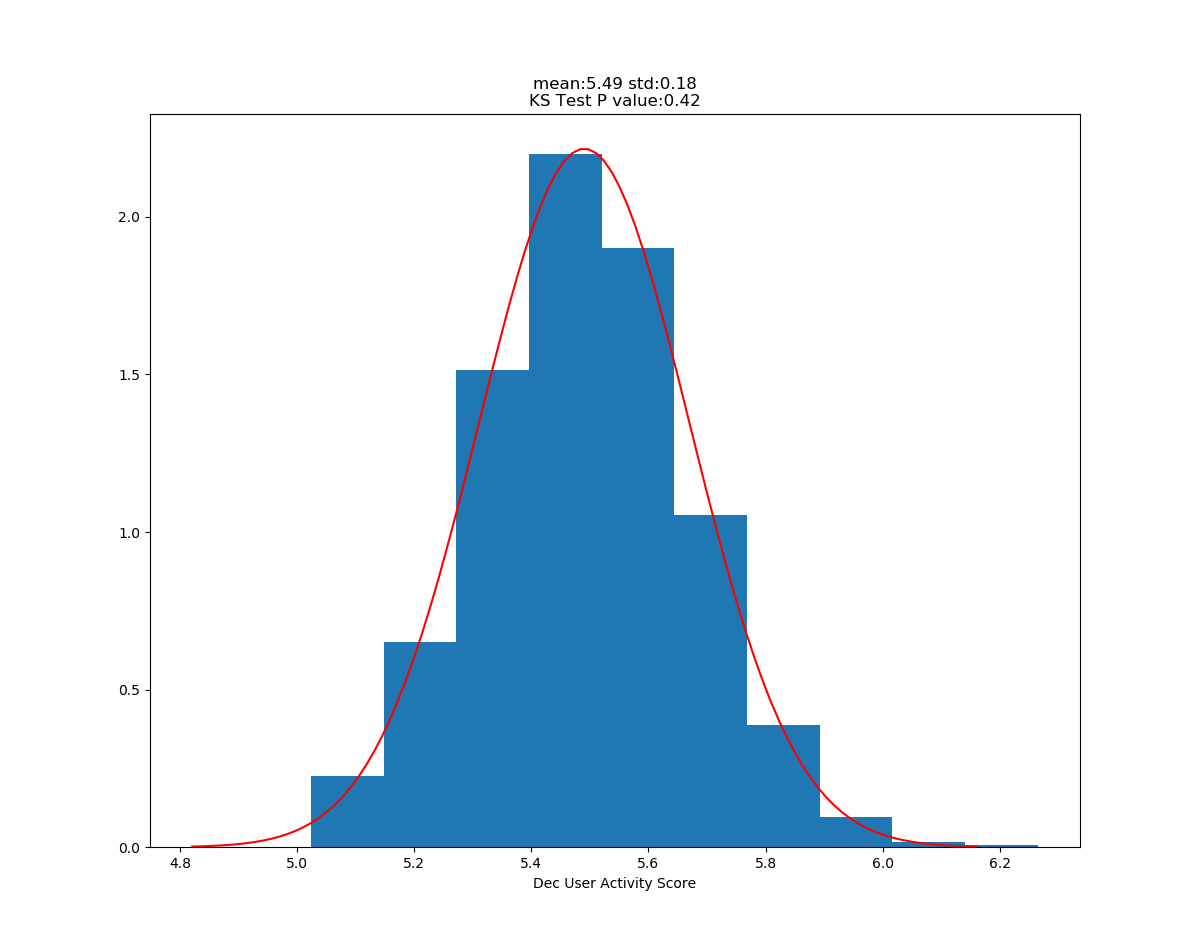
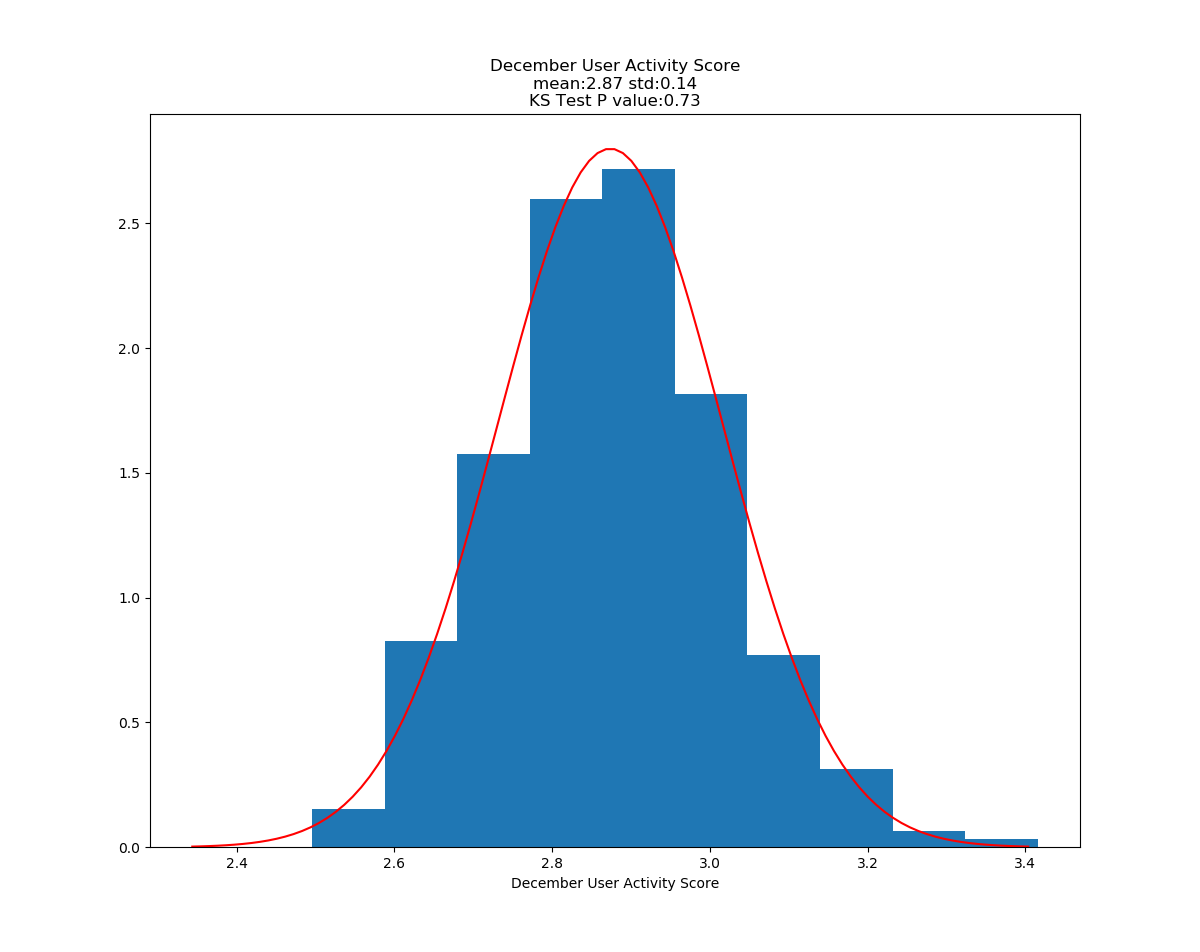
fix graphs

diff --git a/src/db_basic_data_stats.py b/src/db_basic_data_stats.py
@@ -469,16 +469,16 @@ def get_estimated_created_date(main_df):
     main_df = main_df.merge(estimated_created_date_df, how='left', on='user_id')
     return main_df
 
-def corr_heatmap_with_values(df):
+def corr_heatmap_with_values(df, title):
     corr = df.corr()
     mask = np.zeros_like(corr, dtype=np.bool)
     mask[np.triu_indices_from(mask)] = True
-    f, ax = plt.subplots(figsize=(17,15))
+    f, ax = plt.subplots(figsize=(10,10))
     cmap = sns.color_palette('coolwarm')
     sns.heatmap(corr, mask=mask, cmap=cmap, center=0, square=True, linewidths=.5,
                 yticklabels=True, annot=True, fmt='.2f', cbar_kws={'shrink':.5})
-    plt.title('Correlation Matrix', fontsize=20)
-    plt.xticks(rotation=90, fontsize=11)
+    plt.title(title, fontsize=20)
+    plt.xticks(rotation=60, fontsize=11, horizontalalignment='right')
     plt.yticks(rotation=0, fontsize=11)
     plt.tight_layout()
     plt.show()
@@ -487,33 +487,36 @@ def dec_vs_other_months(hypothesis_df):
     #hypothesis_df['estimated_created_date'] = hypothesis_df['estimated_created_date'].astype('datetime64[ns]')
     hypothesis_df_Dec = hypothesis_df.loc[hypothesis_df['estimated_created_date'].dt.month == 12]
     hypothesis_df_not_Dec = hypothesis_df.loc[hypothesis_df['estimated_created_date'].dt.month < 12]
-    dec_active = hypothesis_df_not_Dec.loc[hypothesis_df_not_Dec['user_active_yn']==1]
+    dec_active = hypothesis_df_Dec.loc[hypothesis_df_Dec['user_active_yn']==1]
     other_active = hypothesis_df_not_Dec.loc[hypothesis_df_not_Dec['user_active_yn']==1]
-    # plt.hist(hypothesis_df_Dec['user_activity_score'], color='cyan', label='Dec Active Scores')
-    # plt.hist(hypothesis_df_not_Dec['user_activity_score'],alpha=0.7, color='pink', label='Year Active Scores')
-    # plt.ylabel('number of users')
-    # plt.xlabel('count per variable')
+
+
+    # plt.hist([dec_active['user_activity_score'],other_active['user_activity_score']], 10, histtype='bar', color=['blue','green'], label=['December','All Other Months'])
+    # plt.ylabel('User Count')
+    # plt.xlabel('User Activity Score')
+    # plt.title('User Activity Scores\nDecember vs All Other Months')
     # plt.legend()
     # plt.show()
     #
-    # plt.hist(hypothesis_df_Dec['user_active_yn'], color='cyan', label='Dec Active YN')
-    # plt.hist(hypothesis_df_not_Dec['user_active_yn'],alpha=0.7, color='pink', label='Year Active YN')
-    # plt.ylabel('number of users')
-    # plt.xlabel('count per variable')
+    # plt.hist([hypothesis_df_Dec['user_active_yn'],hypothesis_df_not_Dec['user_active_yn']], 10, histtype='bar', color=['blue','green'], label=['December','All Other Months'])
+    # plt.ylabel('User Count')
+    # plt.xlabel('User Active YN')
+    # plt.title('User Active YN\nDecember vs All Other Months')
     # plt.legend()
     # plt.show()
 
-    bootstrap_ci(dec_active['user_activity_score'], 'Dec User Activity Score')
-    bootstrap_ci(other_active['user_activity_score'], 'Not Dec User Activity Score')
-    bootstrap_ci(hypothesis_df_Dec['user_active_yn'], 'Dec User Active YN')
-    bootstrap_ci(hypothesis_df_not_Dec['user_active_yn'], 'Not Dec User Active YN')
+
+    bootstrap_ci(dec_active['user_activity_score'], 'December User Activity Score')
+    bootstrap_ci(other_active['user_activity_score'], 'All Other Months User Activity Score')
+    bootstrap_ci(hypothesis_df_Dec['user_active_yn'], 'December User Active YN')
+    bootstrap_ci(hypothesis_df_not_Dec['user_active_yn'], 'All Other Months User Active YN')
 
     #dec sample for H on user_active_score
     print("Running ttest on user_active score for Dec vs all other months")
     print(f"Dec Average: {dec_active['user_activity_score'].mean():.2f}")
     print(f'Other Average: {other_active["user_activity_score"].mean():.2f}')
-    hypothesis_df_Dec_sample = dec_active.sample(len(other_active.index))
-    user_active_score_ttest = stats.ttest_ind(hypothesis_df_Dec_sample['user_activity_score'], other_active['user_activity_score'])
+    other_sample = other_active.sample(len(dec_active.index))
+    user_active_score_ttest = stats.ttest_ind(dec_active['user_activity_score'], other_sample['user_activity_score'])
     print(user_active_score_ttest)
     #Ttest_indResult(statistic=-5.9016620625301828, pvalue=4.0248341180765505e-09)
 
@@ -539,7 +542,7 @@ def dec_vs_other_months(hypothesis_df):
     Ttest_indResult(statistic=-10.82884489661955, pvalue=8.3293441015901507e-27)
 
     '''
-def lasso_fit_and_print(target_name, model, predictor, target, predvar_columns):
+def lasso_fit_and_print(target_name, predictor, target, predvar_columns):
     pred_train, pred_test, tar_train, tar_test = train_test_split(predictor, target,test_size=.3)
     model=LassoLarsCV(cv=10, precompute=False).fit(pred_train,tar_train)
     m_log_alphas = -np.log10(model.alphas_)
@@ -579,15 +582,15 @@ def lasso_attempt(data_clean):
     lasso_fit_and_print("Days Inactive", predictors_active, target5, predvar_active.columns)
 
 def correlation_maps_lasso(user_profile):
-    corr_heatmap_with_values(user_profile[['user_active_yn','dup_protocol_started','caffeine_yn','dup_protocol_finished', 'married_yn', 'usual_activity_len', 'alcohol_yn', 'bio_sex_answered', 'bio_sex', 'menstruation_yn', 'blood_type_answered', 'usual_diet_len', 'usual_medications_len', 'usual_conditions_len']])
+    corr_heatmap_with_values(user_profile[['user_active_yn','dup_protocol_started','caffeine_yn','dup_protocol_finished', 'married_yn', 'usual_activity_len', 'alcohol_yn', 'bio_sex_answered', 'bio_sex', 'menstruation_yn', 'blood_type_answered', 'usual_diet_len', 'usual_medications_len', 'usual_conditions_len']], "User Active YN\nLasso Based Correlation Heat Map")
 
-    corr_heatmap_with_values(user_profile[['user_activity_score', 'dup_protocol_started','dup_protocol_finished', 'usual_activity_len', 'alcohol_yn', 'menstruation_yn', 'usual_medications_len', 'usual_conditions_len','caffeine_yn','bio_sex', 'smoke_yn', 'pregnant_yn']])
+    corr_heatmap_with_values(user_profile[['user_activity_score', 'dup_protocol_started','dup_protocol_finished', 'usual_activity_len', 'alcohol_yn', 'menstruation_yn', 'usual_medications_len', 'usual_conditions_len','caffeine_yn','bio_sex', 'smoke_yn', 'pregnant_yn']], 'User Activity Score\nLasso Based Correlation Heat Map')
 
-    corr_heatmap_with_values(user_profile[['user_activity_cnt', 'usual_activity_len','pregnant_answered', 'caffeine_yn', 'usual_diet_len', 'smoke_answered', 'pregnant_yn', 'dup_protocol_started','usual_medications_len','usual_conditions_len', 'alcohol_yn', 'bio_sex']])
+    corr_heatmap_with_values(user_profile[['user_activity_cnt', 'usual_activity_len','pregnant_answered', 'caffeine_yn', 'usual_diet_len', 'smoke_answered', 'pregnant_yn', 'dup_protocol_started','usual_medications_len','usual_conditions_len', 'alcohol_yn', 'bio_sex']], 'User Activity Count\nLasso Based Correlation Heat Map')
 
-    corr_heatmap_with_values(user_profile[['days_active', 'pregnant_answered','caffeine_yn', 'alcohol_answered', 'married_answered', 'menstruation_answered', 'usual_diet_len', 'caffeine_answered','usual_activity_len','blood_type_answered', 'married_yn', 'dup_protocol_started',]])
+    corr_heatmap_with_values(user_profile[['days_active', 'pregnant_answered','caffeine_yn', 'alcohol_answered', 'married_answered', 'menstruation_answered', 'usual_diet_len', 'caffeine_answered','usual_activity_len','blood_type_answered', 'married_yn', 'dup_protocol_started',]], 'Days Active\nLasso Based Correlation Heat Map')
 
-    corr_heatmap_with_values(user_profile[['days_inactive', 'height_likelihood','blood_type_answered', 'caffeine_yn', 'dup_protocol_started', 'pregnant_yn', 'smoke_yn', 'dup_protocol_active','smoke_answered','menstruation_yn', 'dup_protocol_finished', 'bio_sex_answered']])
+    corr_heatmap_with_values(user_profile[['days_inactive', 'height_likelihood','blood_type_answered', 'caffeine_yn', 'dup_protocol_started', 'pregnant_yn', 'smoke_yn', 'dup_protocol_active','smoke_answered','menstruation_yn', 'dup_protocol_finished', 'bio_sex_answered']], 'Days Inactive\nLasso Based Correlation Heat Map')
 
 def add_months(user_profile_df):
     user_profile_df['month_created'] = user_profile_df['created_date'].dt.month.astype(int)
@@ -629,7 +632,7 @@ def plot_histogram_with_normal(data, name):
     ax.hist(data, normed=True)
     normal = stats.norm.pdf(x_range, data.mean(), data.std())
     normal_line =ax.plot(x_range, normal, label='normal pmf', color='r')
-    ax.set_title(f"\nmean:{data.mean():.2f} std:{data.std():.2f}\nKS Test P value:{stats.kstest(data, 'norm',args=[data.mean(), data.std()])[1]:.2f}")
+    ax.set_title(f"{name}\nmean:{data.mean():.2f} std:{data.std():.2f}\nKS Test P value:{stats.kstest(data, 'norm',args=[data.mean(), data.std()])[1]:.2f}")
     ax.set_xlabel(name)
     plt.show()
 
@@ -740,10 +743,25 @@ dec_vs_other_months(hypothesis_df)
 '''
 lasso_attempt(user_profile_df.drop(['user_id','estimated_created_date'],axis=1))
 '''
-#correlation_maps_lasso(user_profile_df)
 #df_to_csv(user_profile_df, 'user_profile.csv')
 user_profile_df = csv_to_df('user_profile.csv')
 user_profile_df['estimated_created_date'] = user_profile_df['estimated_created_date'].astype('datetime64[ns]')
+
+#corr_heatmap_with_values(user_profile_df, "User Profile Features\nCorrelation Heat Map")
+#correlation_maps_lasso(user_profile_df)
+
+# month_year_active = user_profile_df[['user_id', 'estimated_created_date', 'days_active', 'days_inactive', 'user_activity_score']]
+# month_year_active['Profile Creation Month'] = month_year_active['estimated_created_date'].dt.month.astype(int) + (month_year_active['estimated_created_date'].dt.year.astype(int) - 2017)*12
+# plt.hist(month_year_active['Profile Creation Month'])
+# plt.ylabel('Total Number of Users')
+# plt.xlabel('Profile Creation Month')
+# plt.title('User Count Per Signup Month')
+# plt.show()
+
+#dec_vs_other_months(user_profile_df[['user_id','user_active_yn','user_activity_score', 'user_activity_cnt', 'days_active', 'days_inactive', 'estimated_created_date']])
+
+lasso_attempt(user_profile_df.drop(['user_id','estimated_created_date'],axis=1))
+
 
 # plt.hist(user_profile_df['user_active_yn'] )
 # plt.xlabel("Users Active YN")
@@ -751,9 +769,7 @@ user_profile_df['estimated_created_date'] = user_profile_df['estimated_created_d
 
 
 #logistic_regression(user_profile_df)
-print('without dec')
-without_dec = user_profile_df.loc[user_profile_df['estimated_created_date'].dt.month < 12]
-logistic_balanced(without_dec)
+#logistic_balanced(user_profile_df)
 #linear_regression(user_profile_df.loc[user_profile_df['user_active_yn']==1])
 
 #dec_vs_other_months(user_profile_df[['user_id','user_active_yn','user_activity_score', 'user_activity_cnt', 'days_active', 'days_inactive', 'estimated_created_date']])
